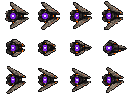
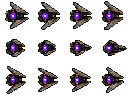
2섹터 몬스터의 주철 표면을 승인 이미지에 맞춘다
첨부 승인 이미지의 거친 표면 구조가 실제 32픽셀 출력에서도 읽히도록 중성 금속의 피팅·산화·먼지·마모를 몸체 상대 좌표의 작은 클러스터로 강화했다. 실루엣과 atlas 계약, hard alpha, 역할색은 그대로 두고 2섹터 전용 Runtime 패키지만 교체한다.

Related: #999

Confidence: high

Scope-risk: narrow

Tested: 결정적 authoring build, enemy sprite validator, export와 Runtime SHA-256 동일성, Stage 2-3 데스크톱·모바일 화면 검증을 통과했다.

Not-tested: 없음

diff --git a/assets/artwork/characters/sector-02-enemy-family-material-variant/source/build_sector02_variant.py b/assets/artwork/characters/sector-02-enemy-family-material-variant/source/build_sector02_variant.py
@@ -2,6 +2,7 @@ from __future__ import annotations
 
 import hashlib
 import json
+import math
 from collections import Counter
 from pathlib import Path
 
@@ -162,6 +163,16 @@ SURFACE_ANCHORS = (
     (0.40, 0.79, "dust"),
     (0.64, 0.83, "rust"),
     (0.70, 0.80, "rust"),
+    (0.10, 0.38, "wear"),
+    (0.27, 0.14, "rust"),
+    (0.36, 0.30, "dust"),
+    (0.53, 0.33, "pit"),
+    (0.84, 0.42, "rust"),
+    (0.12, 0.76, "pit"),
+    (0.31, 0.56, "wear"),
+    (0.55, 0.60, "rust"),
+    (0.67, 0.56, "dust"),
+    (0.86, 0.76, "wear"),
 )
 
 SURFACE_MIN_BRIGHTNESS = {
@@ -170,6 +181,18 @@ SURFACE_MIN_BRIGHTNESS = {
     "dust": 165,
     "wear": 190,
 }
+
+# The approved contact sheet shows broad, clustered cast-iron mottling rather
+# than isolated single-pixel noise. Keep the clusters small enough for the
+# 32px runtime cell, but dense enough to remain visible at actual world size.
+SURFACE_CLUSTER_OFFSETS = {
+    "pit": ((0, 0), (1, 0), (0, 1)),
+    "rust": ((0, 0), (1, 0), (0, 1)),
+    "dust": ((0, 0), (1, 0), (-1, 0)),
+    "wear": ((0, 0), (1, 0)),
+}
+SURFACE_TARGET_RATIO = 0.3
+SURFACE_MIN_PIXELS = 3
 
 
 def clamp_channel(value: int) -> int:
@@ -181,7 +204,7 @@ def surface_color(color: tuple[int, int, int], mode: str) -> tuple[int, int, int
     if mode == "pit":
         return (clamp_channel(red - 42), clamp_channel(green - 38), clamp_channel(blue - 32))
     if mode == "rust":
-        return (clamp_channel(red + 46), clamp_channel(green - 15), clamp_channel(blue - 29))
+        return (clamp_channel(red + 32), clamp_channel(green - 8), clamp_channel(blue - 20))
     if mode == "dust":
         return (clamp_channel(red + 32), clamp_channel(green + 24), clamp_channel(blue + 13))
     if mode == "wear":
@@ -232,42 +255,59 @@ def apply_cast_iron_surface(
             max_x = max(point[0] for point in eligible)
             min_y = min(point[1] for point in eligible)
             max_y = max(point[1] for point in eligible)
-            target_count = min(len(SURFACE_ANCHORS), max(2, len(eligible) // 7))
+            target_surface_pixels = min(
+                len(eligible),
+                max(SURFACE_MIN_PIXELS, math.ceil(len(eligible) * SURFACE_TARGET_RATIO)),
+            )
+            minimum_cluster_size = min(len(offsets) for offsets in SURFACE_CLUSTER_OFFSETS.values())
+            target_count = min(
+                len(SURFACE_ANCHORS),
+                max(2, math.ceil(target_surface_pixels / minimum_cluster_size)),
+            )
             anchor_indexes = {
                 round(index * (len(SURFACE_ANCHORS) - 1) / (target_count - 1))
                 for index in range(target_count)
             }
             selected_anchors = tuple(SURFACE_ANCHORS[index] for index in sorted(anchor_indexes))
             remaining = set(eligible)
+            surface_pixel_count = 0
             for normalized_x, normalized_y, mode in selected_anchors:
                 anchor_x = min_x + round((max_x - min_x) * normalized_x)
                 anchor_y = min_y + round((max_y - min_y) * normalized_y)
-                bright_enough = [
-                    point
-                    for point in remaining
-                    if sum(
-                        output_pixels[
-                            cell_column * 32 + point[0],
-                            cell_row * 32 + point[1],
-                        ][:3]
+                for offset_x, offset_y in SURFACE_CLUSTER_OFFSETS[mode]:
+                    if not remaining or surface_pixel_count >= target_surface_pixels:
+                        break
+                    target_x = anchor_x + offset_x
+                    target_y = anchor_y + offset_y
+                    bright_enough = [
+                        point
+                        for point in remaining
+                        if sum(
+                            output_pixels[
+                                cell_column * 32 + point[0],
+                                cell_row * 32 + point[1],
+                            ][:3]
+                        )
+                        >= SURFACE_MIN_BRIGHTNESS[mode]
+                    ]
+                    candidates = bright_enough or list(remaining)
+                    local_x, local_y = min(
+                        candidates,
+                        key=lambda point: (
+                            abs(point[0] - target_x) + abs(point[1] - target_y),
+                            (point[0] - target_x) ** 2 + (point[1] - target_y) ** 2,
+                            point[1],
+                            point[0],
+                        ),
                     )
-                    >= SURFACE_MIN_BRIGHTNESS[mode]
-                ]
-                candidates = bright_enough or list(remaining)
-                local_x, local_y = min(
-                    candidates,
-                    key=lambda point: (
-                        abs(point[0] - anchor_x) + abs(point[1] - anchor_y),
-                        (point[0] - anchor_x) ** 2 + (point[1] - anchor_y) ** 2,
-                        point[1],
-                        point[0],
-                    ),
-                )
-                remaining.remove((local_x, local_y))
-                x = cell_column * 32 + local_x
-                y = cell_row * 32 + local_y
-                red, green, blue = surface_color(output_pixels[x, y][:3], mode)
-                output_pixels[x, y] = (red, green, blue, 255)
+                    remaining.remove((local_x, local_y))
+                    x = cell_column * 32 + local_x
+                    y = cell_row * 32 + local_y
+                    red, green, blue = surface_color(output_pixels[x, y][:3], mode)
+                    output_pixels[x, y] = (red, green, blue, 255)
+                    surface_pixel_count += 1
+                if surface_pixel_count >= target_surface_pixels:
+                    break
     return output
 
 
@@ -433,7 +473,11 @@ def validate_pair(
         if surface_pixels:
             raise AssertionError(f"{name}: protected Shield body received cast-iron surface pixels")
     elif not surface_pixels or any(
-        eligible_count > 0 and surface_count < 2
+        eligible_count > 0
+        and surface_count < min(
+            eligible_count,
+            max(SURFACE_MIN_PIXELS, math.ceil(eligible_count * SURFACE_TARGET_RATIO)),
+        )
         for eligible_count, surface_count in zip(frame_eligible_pixel_counts, frame_surface_pixel_counts)
     ):
         raise AssertionError(f"{name}: cast-iron surface pattern is missing or too weak in one or more cells")

diff --git a/assets/artwork/characters/sector-02-enemy-family-material-variant/README.md b/assets/artwork/characters/sector-02-enemy-family-material-variant/README.md
@@ -40,7 +40,7 @@ Role and behavior colors remain exact source RGB values: Shield blue; Support gr
 
 ## Approval and non-scope
 
-The user required the rugged cast-iron replacement to match the supplied material structure, not only its colors. Issue #987 supersedes Issue #941's too-subtle periodic brightness treatment. The eight exports are copied without further image changes into `assets/runtime/characters/sector-02-enemies/`; the existing immutable `sectorId → package` selection registers only `sector-02`. Sector 01, Sector 03, Sector 04, gameplay, AI, collision and networking remain outside its scope. Issue #898 remains the history of the earlier restrained treatment.
+The user required the rugged cast-iron replacement to match the supplied material structure, not only its colors. Issue #999 raises the body-relative clustered treatment to cover 30% of eligible neutral metal so the approved pitting, oxidation, dust and worn-edge structure remains visible at actual game size. It supersedes Issue #987's sparse clusters, Issue #941's too-subtle periodic brightness treatment and Issue #898's earlier restrained treatment. The eight exports are copied without further image changes into `assets/runtime/characters/sector-02-enemies/`; the existing immutable `sectorId → package` selection registers only `sector-02`. Sector 01, Sector 03, Sector 04, gameplay, AI, collision and networking remain outside its scope.
 
 ## Validation
 
@@ -48,6 +48,6 @@ The user required the rugged cast-iron replacement to match the supplied materia
 - Atlas contract: `PASS` — 8 RGBA PNGs, exact source dimensions, unchanged `32x32` cell grids and frame/layer order.
 - Pixel contract: `PASS` — source alpha bytes and opaque masks are identical; output alpha values are only `0` and `255`.
 - Role-color contract: `PASS` — protected role, sensor, exhaust, telegraph and healing RGB counts are identical to the approved source atlases.
-- Surface-structure contract: `PASS` — every populated neutral-metal frame has body-relative clustered pits, oxidation, dust and edge wear; Shield role-blue body pixels remain untouched.
+- Surface-structure contract: `PASS` — every populated neutral-metal frame gives 30% of eligible pixels to body-relative clustered pits, oxidation, dust and edge wear; Shield role-blue body pixels remain untouched.
 - Visual review: `PASS` for the rugged cast-iron authoring comparison, all enlarged animation atlases and exact `56x56`, `60x60` and `18x18` world-output sizes on the Sector 02 reference crop.
-- Runtime validator/browser gameplay: `PASS` against the integrated `sector-02-enemies` package at Stage 2-3 desktop `1280x720` and mobile landscape `844x390`; the new pitting, oxidation and dust clusters remain visible on the Support housing with its green role core preserved, and the browser reported no warnings or errors.
+- Runtime validator/browser gameplay: `PASS` against the integrated `sector-02-enemies` package at Stage 2-3 desktop `1280x720` and mobile landscape `844x390`; the denser pitting, oxidation and dust clusters remain visible on Patrol and Support housing with their role colors preserved, and the browser reported no warnings or errors.

diff --git a/assets/runtime/characters/sector-02-enemies/README.md b/assets/runtime/characters/sector-02-enemies/README.md
@@ -6,7 +6,7 @@
 - Provenance: repository-owned approved Sector 01 assets and the user-provided comparison sheet; no third-party artwork
 - Runtime selection: only enemies whose authored `sectorId` resolves to `sector-02`
 
-This package preserves the Sector 01 public enemy manifest contract: eight RGBA PNG atlases, seven enemy definitions, the existing `32x32` cells, state and frame order, timing, render sizes, anchors and transparent padding. Only neutral metal and auxiliary housing receive the user-selected rugged Worker District treatment: near-black cast-iron recesses, mottled graphite-brown midtones, blocky pits, brown oxidation clusters, dry dust bands and worn gray-beige edges. The clustered pattern follows each frame's body-relative metal bounds, replacing the superseded periodic brightness noise that was not readable at game size. Shield blue, Support green, Swarm purple, Patrol red/orange, Artillery orange/red and the Sentry/Pursuit sensor, exhaust and warning colors remain unchanged.
+This package preserves the Sector 01 public enemy manifest contract: eight RGBA PNG atlases, seven enemy definitions, the existing `32x32` cells, state and frame order, timing, render sizes, anchors and transparent padding. Only neutral metal and auxiliary housing receive the user-selected rugged Worker District treatment: near-black cast-iron recesses, mottled graphite-brown midtones, blocky pits, brown oxidation clusters, dry dust bands and worn gray-beige edges. The clustered pattern follows each frame's body-relative metal bounds and occupies 30% of eligible neutral pixels so the supplied material structure remains readable at game size. Shield blue, Support green, Swarm purple, Patrol red/orange, Artillery orange/red and the Sentry/Pursuit sensor, exhaust and warning colors remain unchanged.
 
 The package does not change enemy types, gameplay, AI, collision, damage, networking, animation timing or other sectors. Missing sector packages or unsupported types continue to use the existing Sector 01 and built-in fallbacks.
 
@@ -15,4 +15,4 @@ The package does not change enemy types, gameplay, AI, collision, damage, networ
 - Authoring export to Runtime PNG hash identity: `PASS` for all eight atlases
 - Runtime manifest validator: `PASS` — `8 atlas, 7 enemies, 48 states`
 - Fixed selection: `PASS` — Sector 02 resolves to `sector-02-enemies`; Sector 01, Sector 03 and Sector 04 selections remain unchanged
-- Manual browser review: `PASS` — Stage 2-3 rendered the clustered cast-iron pitting, oxidation and dust treatment on the Support housing with its green role core preserved at desktop `1280x720` and mobile landscape `844x390`; no browser warnings or errors
+- Manual browser review: `PASS` — Stage 2-3 rendered the denser cast-iron pitting, oxidation and dust treatment on Patrol and Support housing with their role colors preserved at desktop `1280x720` and mobile landscape `844x390`; no browser warnings or errors
